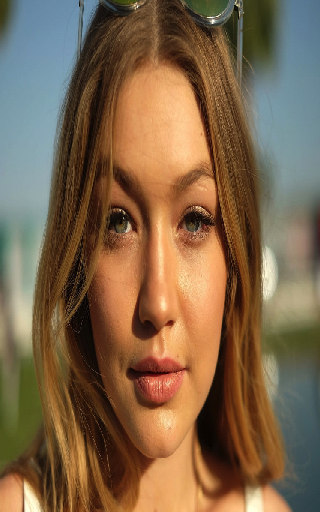
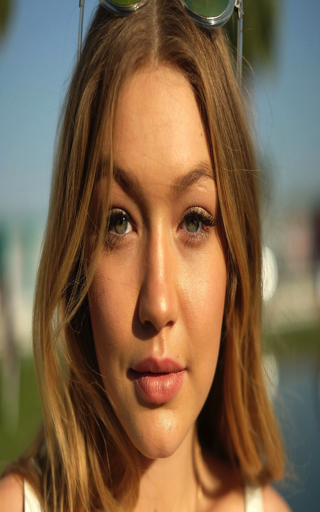
Improved scaled source image for laced example

diff --git a/014.lace_mode/README.md b/014.lace_mode/README.md
@@ -53,7 +53,7 @@ try it
 
 interlaced
 ----------
-![interlaced](screenshots/laced.png?raw=true)
+![interlaced](screenshots/laced_new.png?raw=true)
 
 non-interlaced
 --------------
